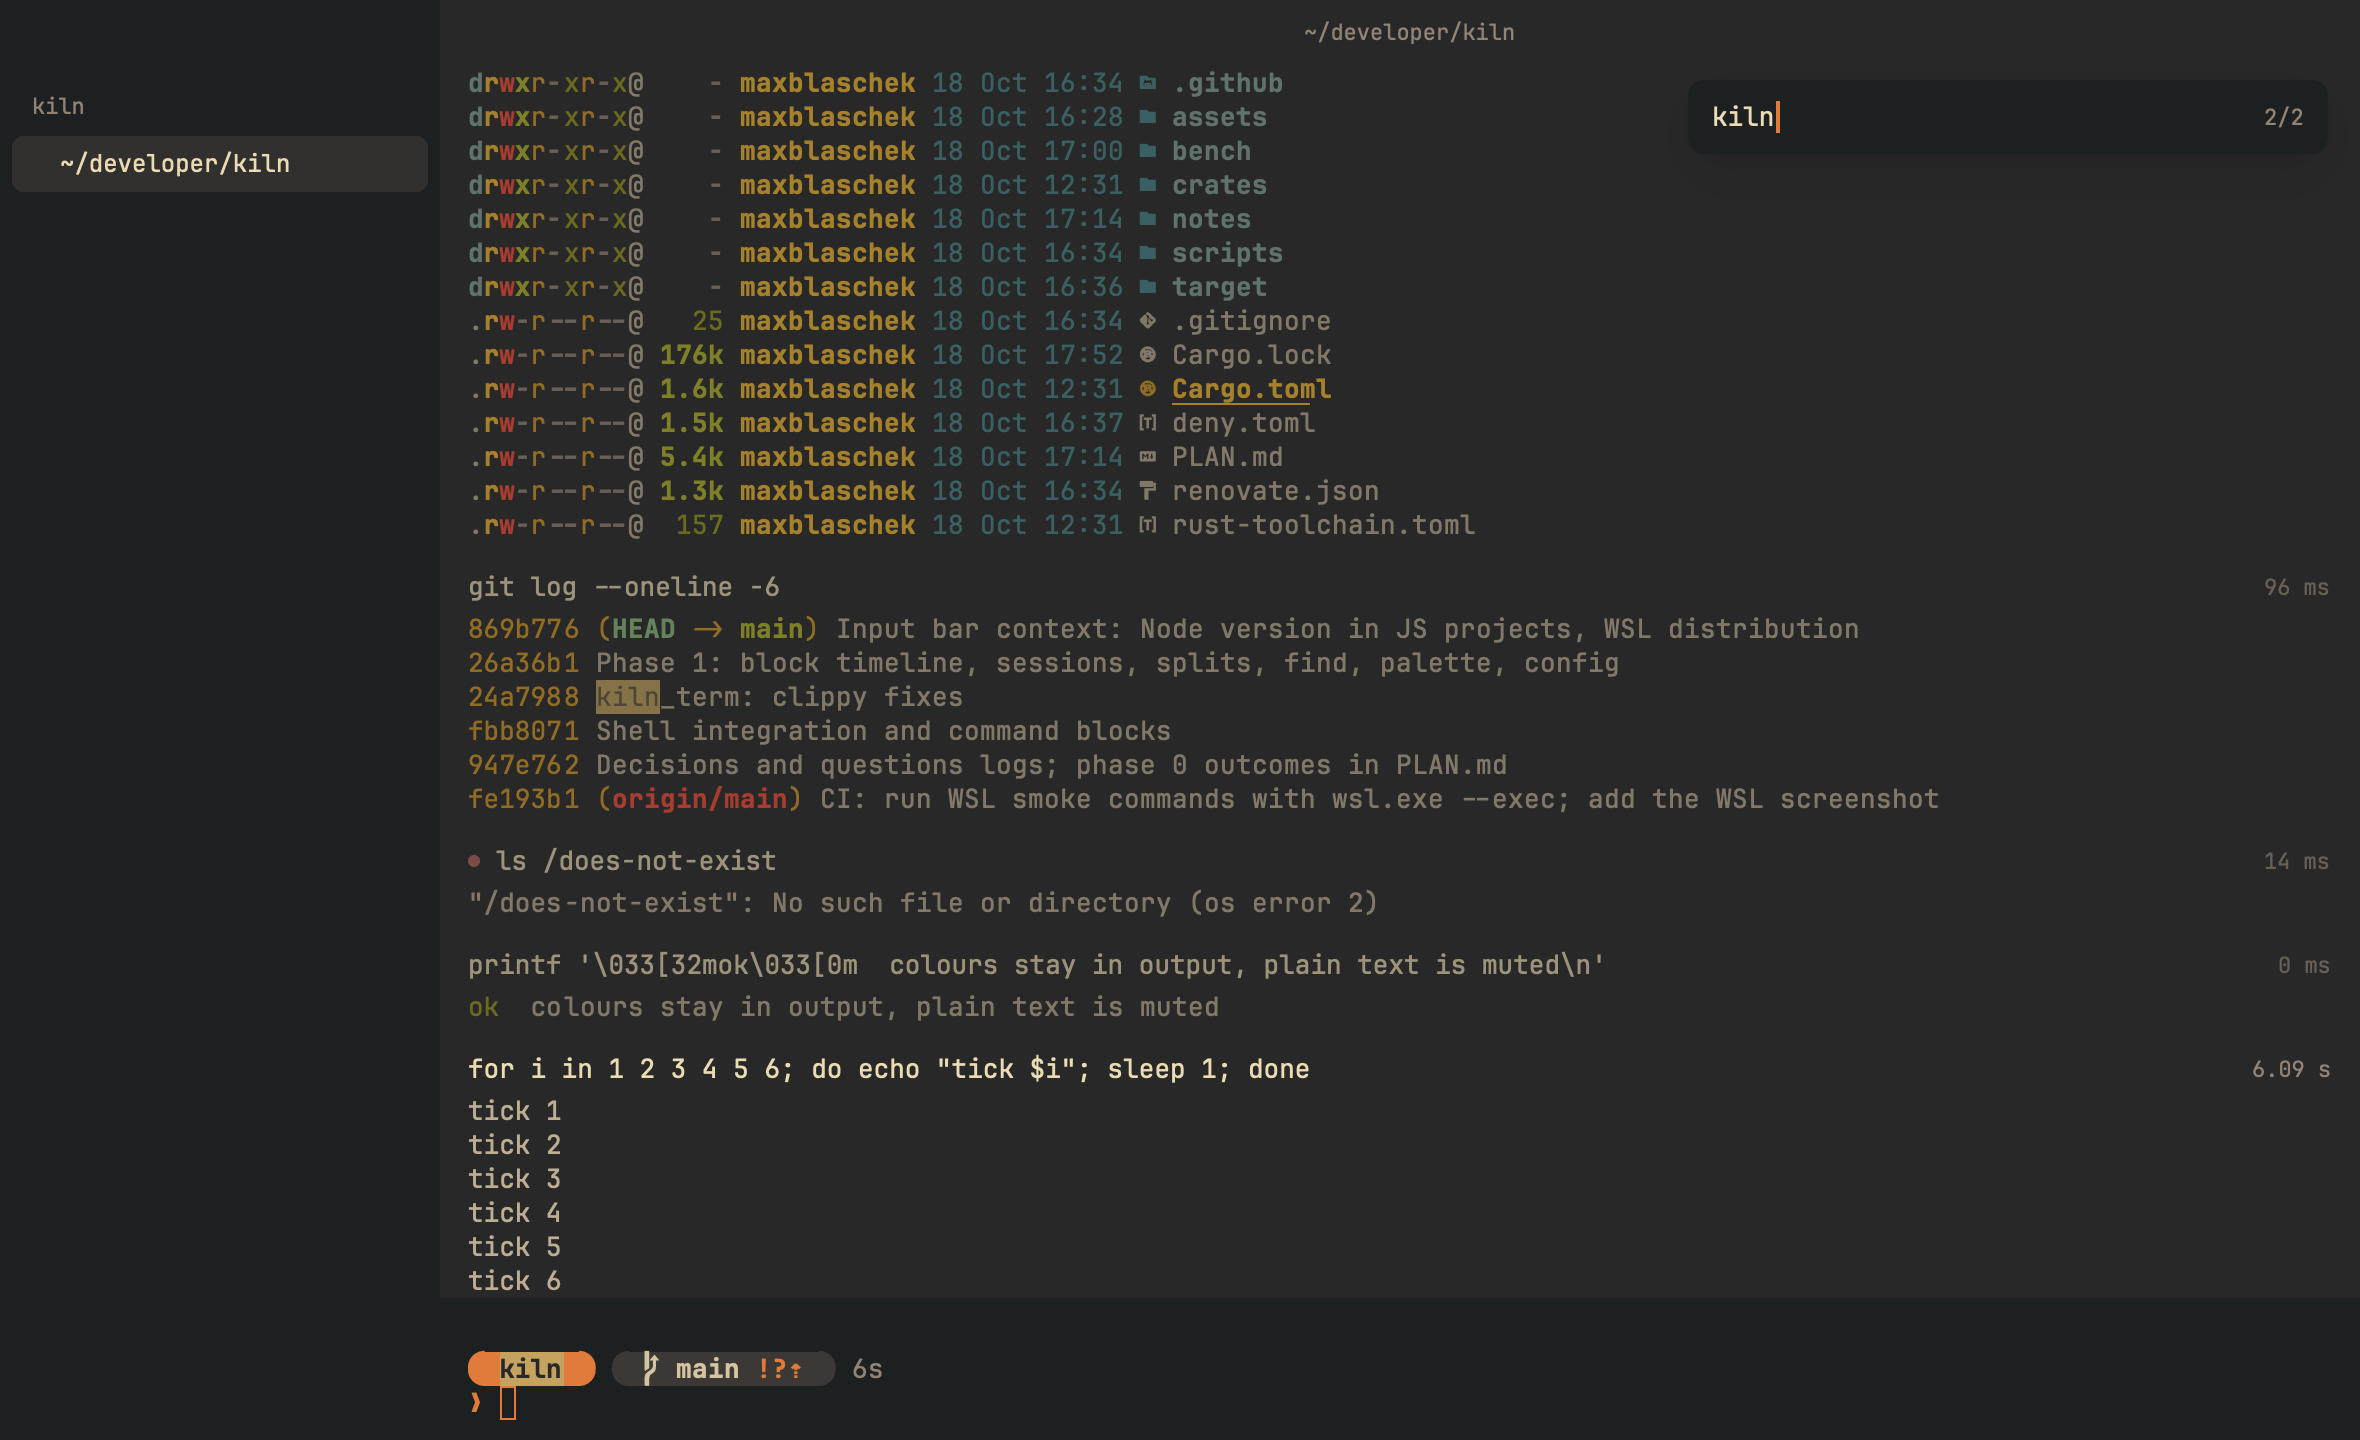
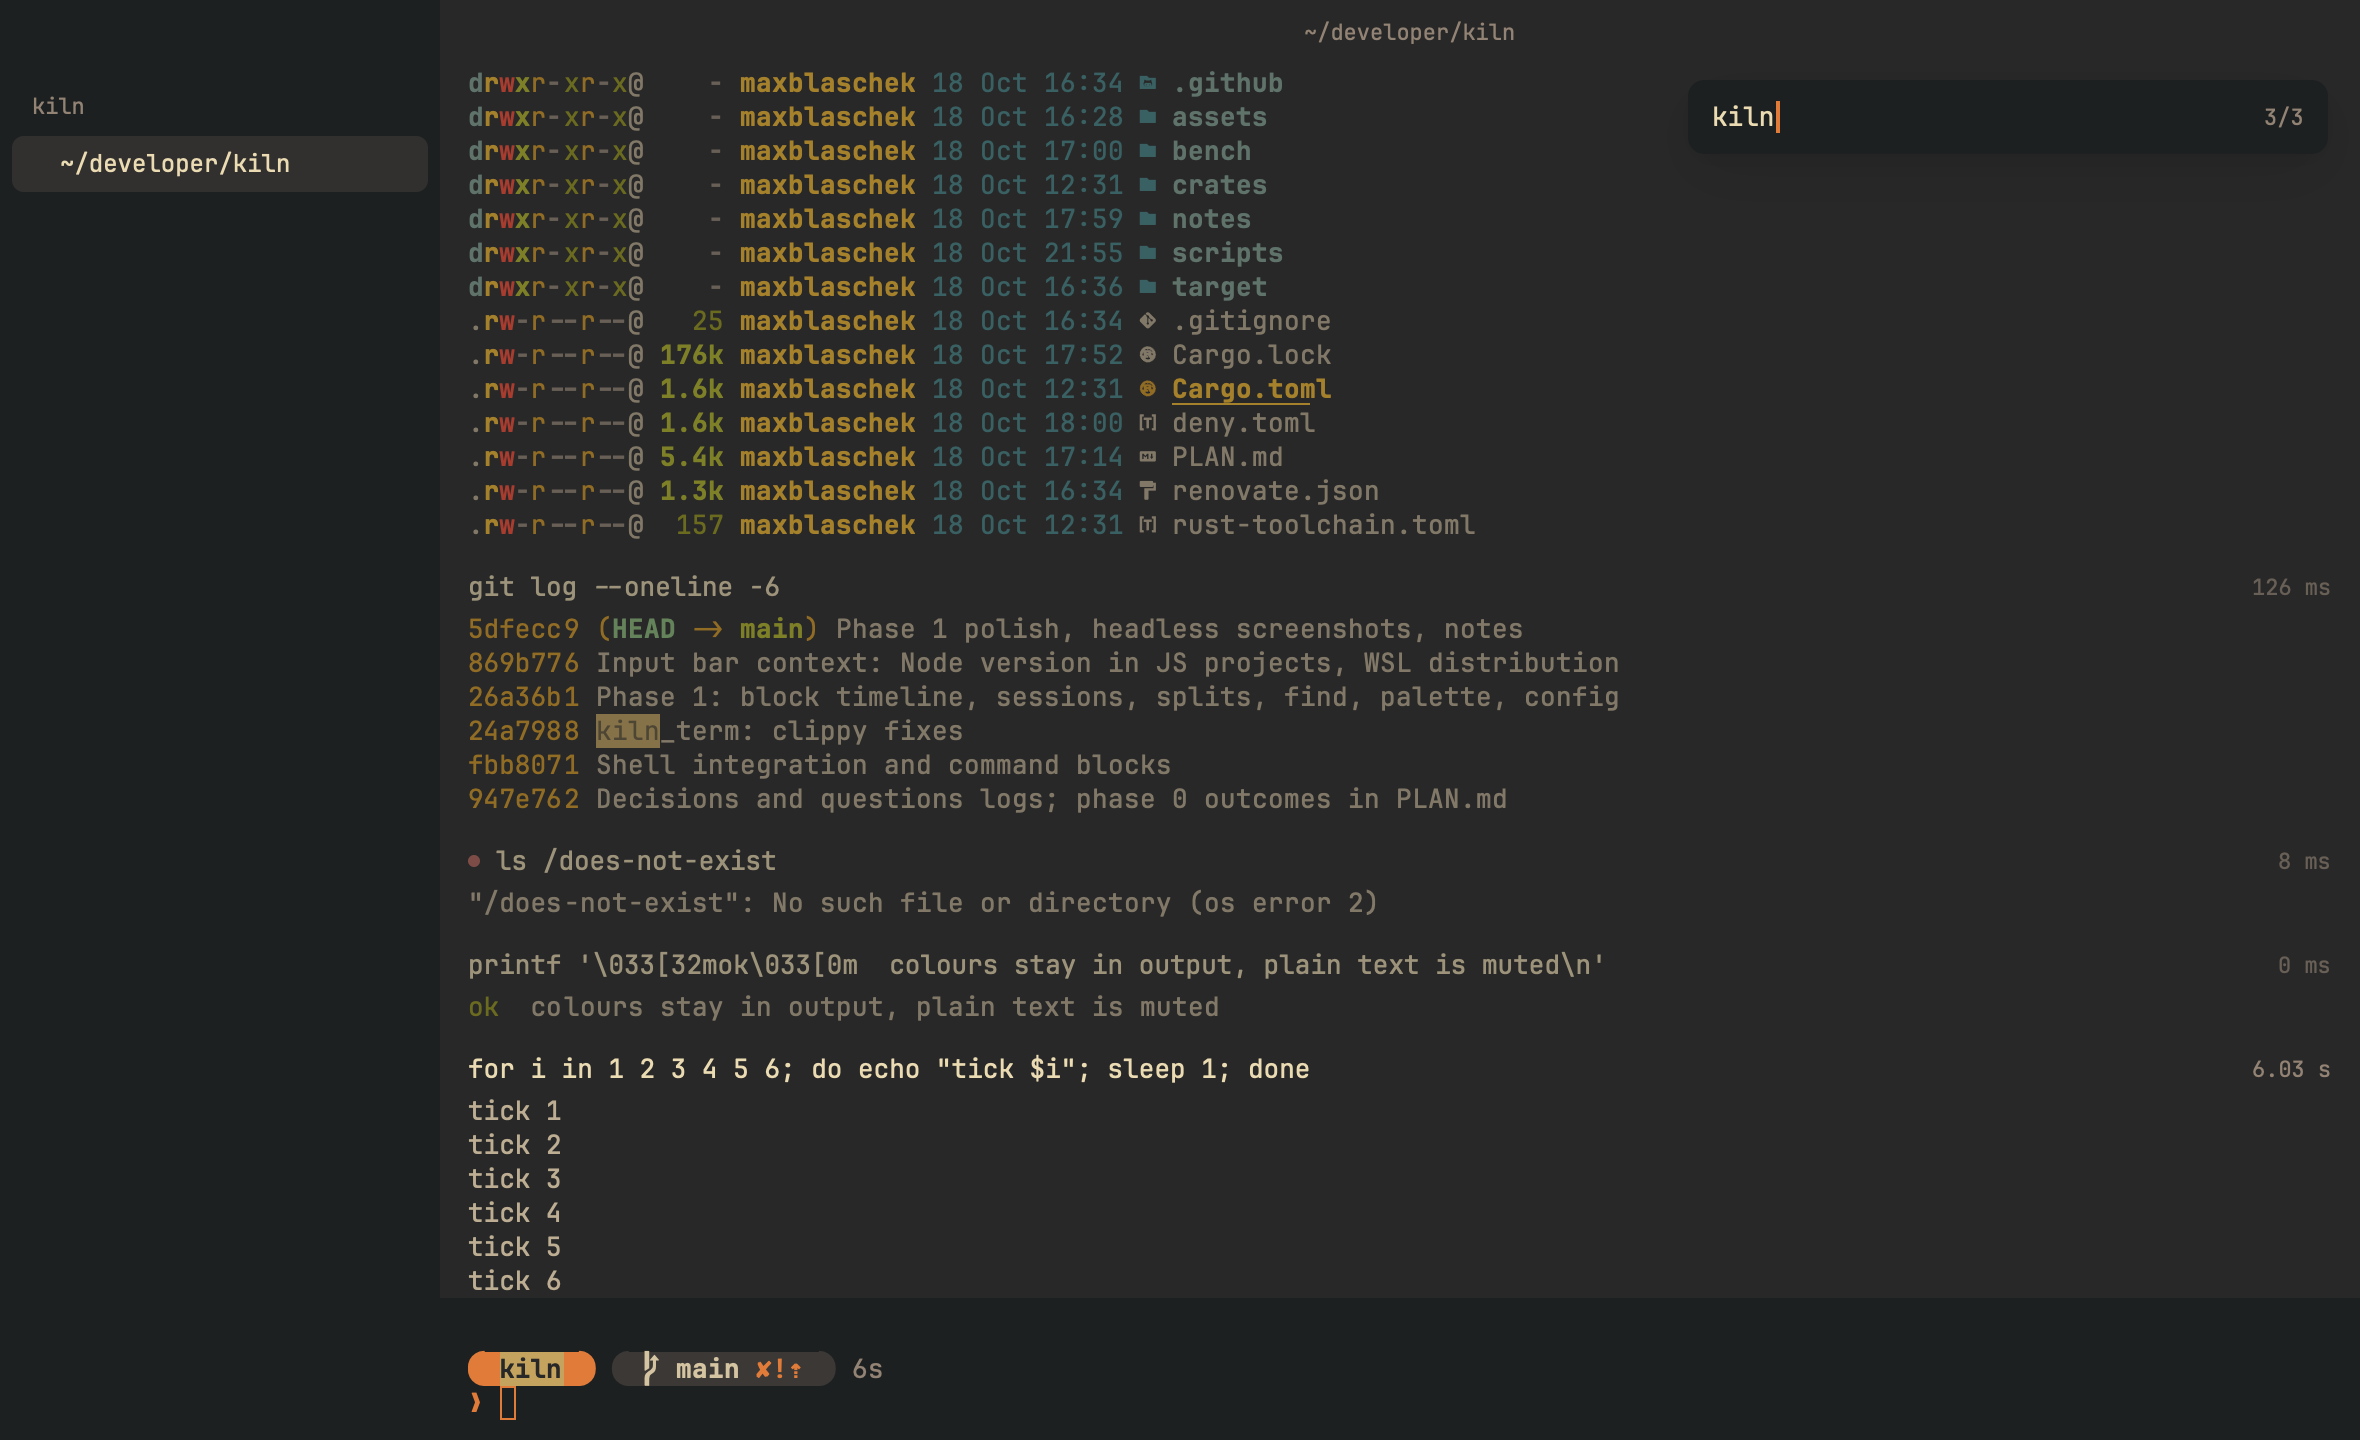
Find matches command lines; --background launch; Linux check fix
- Find also searches block command lines and highlights them in the header.
- --background opens the window without taking focus.
- scripts/linux-check.sh: non-login bash so cargo is on PATH.

Changed region(s): [[0.1856, 0.4062, 0.8042, 0.5625]]

diff --git a/crates/kiln/src/search.rs b/crates/kiln/src/search.rs
@@ -12,6 +12,12 @@ use crate::block_element::FrozenBlock;
 /// One match.
 #[derive(Clone, Copy, Debug, PartialEq, Eq)]
 pub enum Match {
+    /// In a finished block's command line: byte range `start..end`.
+    Header {
+        item: usize,
+        start: usize,
+        end: usize,
+    },
     /// In a finished block: logical line and cell range `start..end`.
     Block {
         item: usize,
@@ -35,14 +41,19 @@ type BlockRanges = HashMap<usize, Vec<(usize, usize, usize)>>;
 pub struct SearchHighlights {
     live: Rc<Vec<(Line, Column, Column)>>,
     blocks: Rc<BlockRanges>,
+    headers: Rc<HashMap<usize, Vec<(usize, usize)>>>,
 }
 
 impl SearchHighlights {
     pub fn from_matches(matches: &[Match]) -> Self {
         let mut live = Vec::new();
         let mut blocks = BlockRanges::new();
+        let mut headers: HashMap<usize, Vec<(usize, usize)>> = HashMap::new();
         for m in matches {
             match *m {
+                Match::Header { item, start, end } => {
+                    headers.entry(item).or_default().push((start, end))
+                }
                 Match::Block {
                     item,
                     line,
@@ -55,6 +66,7 @@ impl SearchHighlights {
         Self {
             live: Rc::new(live),
             blocks: Rc::new(blocks),
+            headers: Rc::new(headers),
         }
     }
 
@@ -62,6 +74,11 @@ impl SearchHighlights {
         self.live.iter().any(|&(line, start, end)| {
             line == point.line && start <= point.column && point.column <= end
         })
+    }
+
+    /// Byte ranges of matches in a block's command line.
+    pub fn header_ranges(&self, item: usize) -> &[(usize, usize)] {
+        self.headers.get(&item).map_or(&[], Vec::as_slice)
     }
 
     pub fn block_contains(&self, item: usize, line: usize, cell: usize) -> bool {
@@ -115,6 +132,35 @@ fn find_in_cells(cells: &[Cell], query: &str) -> Vec<(usize, usize)> {
     out
 }
 
+/// Case-insensitive matches of `query` in `text`, as byte ranges.
+fn find_in_text(text: &str, query: &str) -> Vec<(usize, usize)> {
+    let needle: Vec<char> = query.to_lowercase().chars().collect();
+    let chars: Vec<(usize, char)> = text
+        .char_indices()
+        .flat_map(|(i, c)| c.to_lowercase().map(move |l| (i, l)))
+        .collect();
+    let mut out = Vec::new();
+    if needle.is_empty() {
+        return out;
+    }
+    let mut i = 0;
+    while i + needle.len() <= chars.len() {
+        if chars[i..i + needle.len()]
+            .iter()
+            .map(|(_, c)| *c)
+            .eq(needle.iter().copied())
+        {
+            let (last_at, _) = chars[i + needle.len() - 1];
+            let end = last_at + text[last_at..].chars().next().map_or(0, char::len_utf8);
+            out.push((chars[i].0, end));
+            i += needle.len();
+        } else {
+            i += 1;
+        }
+    }
+    out
+}
+
 /// All matches, oldest first.
 pub fn find(
     query: &str,
@@ -127,6 +173,9 @@ pub fn find(
         return matches;
     }
     for (item, block) in blocks.iter().enumerate() {
+        for (start, end) in find_in_text(&block.block.command, query) {
+            matches.push(Match::Header { item, start, end });
+        }
         for (line, cells) in block.block.lines.iter().enumerate() {
             for (start, end) in find_in_cells(cells, query) {
                 matches.push(Match::Block {
@@ -167,6 +216,15 @@ mod tests {
                 ..Default::default()
             })
             .collect()
+    }
+
+    #[test]
+    fn finds_matches_in_command_lines() {
+        assert_eq!(
+            find_in_text("cd ~/Kiln && kiln", "kiln"),
+            vec![(5, 9), (13, 17)]
+        );
+        assert_eq!(find_in_text("café", "É"), vec![(3, 5)]);
     }
 
     #[test]

diff --git a/crates/kiln/src/main.rs b/crates/kiln/src/main.rs
@@ -21,6 +21,8 @@ struct Args {
     shell: Option<ShellCommand>,
     /// Quit after the first frame that shows shell output and print the time it took.
     bench_startup: bool,
+    /// Open without taking focus from the app in front (for tests and scripts).
+    background: bool,
     columns: Option<usize>,
     lines: Option<usize>,
 }
@@ -29,6 +31,7 @@ fn parse_args() -> Args {
     let mut args = Args {
         shell: None,
         bench_startup: false,
+        background: false,
         columns: None,
         lines: None,
     };
@@ -36,6 +39,7 @@ fn parse_args() -> Args {
     while let Some(arg) = it.next() {
         match arg.as_str() {
             "--bench-startup" => args.bench_startup = true,
+            "--background" => args.background = true,
             "--cols" => args.columns = it.next().and_then(|v| v.parse().ok()),
             "--rows" => args.lines = it.next().and_then(|v| v.parse().ok()),
             #[cfg(windows)]
@@ -54,7 +58,7 @@ fn parse_args() -> Args {
             }
             "--help" | "-h" => {
                 println!(
-                    "kiln [--cols N] [--rows N] [--bench-startup] [--wsl | --pwsh] [-- program args...]"
+                    "kiln [--cols N] [--rows N] [--background] [--bench-startup] [--wsl | --pwsh] [-- program args...]"
                 );
                 std::process::exit(0);
             }
@@ -157,7 +161,9 @@ fn main() {
         ]);
 
         open_window(args.clone(), started, cx);
-        cx.activate(true);
+        if !args.background {
+            cx.activate(true);
+        }
     });
 }
 
@@ -262,6 +268,7 @@ fn open_window(args: Args, started: Instant, cx: &mut App) {
             traffic_light_position: Some(point(px(12.), px(11.))),
         }),
         app_id: Some("dev.kiln.Kiln".into()),
+        focus: !args.background,
         window_min_size: Some(size(px(360.), px(200.))),
         // Linux: Kiln draws its own title bar, so it looks the same on GNOME, KDE and X11.
         window_decorations: Some(if cfg!(target_os = "linux") {

diff --git a/crates/kiln/src/terminal_view.rs b/crates/kiln/src/terminal_view.rs
@@ -1053,6 +1053,12 @@ impl TerminalView {
     /// Scrolls so a match is visible.
     pub fn reveal_match(&mut self, m: Match, cx: &mut Context<Self>) {
         match m {
+            Match::Header { item, .. } => {
+                self.list_state.scroll_to(ListOffset {
+                    item_ix: item,
+                    offset_in_item: px(0.),
+                });
+            }
             Match::Block { item, line, .. } => {
                 let columns = self.session.size().columns;
                 let row = self.blocks[item]
@@ -1170,12 +1176,33 @@ impl TerminalView {
                 .text_size(small)
                 .child("shell started")
         } else {
-            div()
+            // Find highlights in the command line.
+            let mut title = div()
+                .flex()
+                .flex_row()
                 .text_color(theme::hsla(palette().fg))
                 .whitespace_nowrap()
-                .overflow_hidden()
-                .text_ellipsis()
-                .child(block.command.clone())
+                .overflow_hidden();
+            let mut at = 0;
+            for &(start, end) in self.search_highlights.header_ranges(ix) {
+                if start > at {
+                    title = title.child(block.command[at..start].to_string());
+                }
+                title = title.child(
+                    div()
+                        .bg(theme::hsla(palette().modified))
+                        .text_color(theme::hsla(palette().bg))
+                        .child(block.command[start..end].to_string()),
+                );
+                at = end;
+            }
+            title.child(
+                div()
+                    .min_w_0()
+                    .overflow_hidden()
+                    .text_ellipsis()
+                    .child(block.command[at..].to_string()),
+            )
         };
         let meta = if block.startup {
             String::new()

diff --git a/crates/kiln/src/block_element.rs b/crates/kiln/src/block_element.rs
@@ -255,8 +255,14 @@ impl Element for BlockBody {
         // the live screen at the time.
         let colors = Colors::default();
         let mut painter = GridPainter::new(bounds.origin, self.metrics, &colors, Tone::Muted);
-        let visible = crate::grid_paint::visible_rows(bounds, self.metrics.line_height, rows.len(), window);
-        for (r, row) in rows.iter().enumerate().skip(visible.start).take(visible.len()) {
+        let visible =
+            crate::grid_paint::visible_rows(bounds, self.metrics.line_height, rows.len(), window);
+        for (r, row) in rows
+            .iter()
+            .enumerate()
+            .skip(visible.start)
+            .take(visible.len())
+        {
             for (column, cell) in self.block.cells(*row).iter().enumerate() {
                 let point = TimelinePoint {
                     item: self.item,

diff --git a/notes/DECISIONS.md b/notes/DECISIONS.md
@@ -64,3 +64,8 @@ Newest at the bottom.
   there is one, so `--help` and `--bench-startup` still print.
 - **Visual checks without a display**: `cargo run -p kiln --example snapshot` renders the real app
   headless (real shells, real text and GPU rendering) and saves PNGs; it also runs in CI.
+- **Pushing**: the user allowed pushes to the private `MaxB-Coder/kiln` repo (2026-10-18), so CI
+  checks every phase on macOS, Windows (PowerShell, WSL) and Linux.
+- **`--background`** opens Kiln without taking focus (used for every test launch, so a test
+  window never catches the user's typing).
+- **Find also matches command lines** in block headers, highlighted in place.

diff --git a/notes/QUESTIONS.md b/notes/QUESTIONS.md
@@ -20,9 +20,7 @@ Collected during the autonomous build; raised at the end of the project.
 
 ## Repository and accounts
 
-- Push the local commits made after 2026-10-18 16:10 to `MaxB-Coder/kiln`? (Pushing is paused.)
-  CI then runs the new PowerShell block test on Windows and the headless screenshots on
-  macOS and Linux.
+- ~~Push to `MaxB-Coder/kiln`?~~ Answered 2026-10-18: yes, pushing to the private repo is allowed.
 - Install the Renovate GitHub app on the repo.
 - Choose a licence (none yet). Third-party code inside Kiln: alacritty's PTY loop (Apache-2.0,
   attributed); fonts (OFL + MIT).

diff --git a/notes/screenshots/phase1/07-copy-last-output.md b/notes/screenshots/phase1/07-copy-last-output.md
@@ -6,5 +6,5 @@ tick 3
 tick 4
 tick 5
 tick 6
-# exit 0 · 6.09 s
+# exit 0 · 6.03 s
 ```
